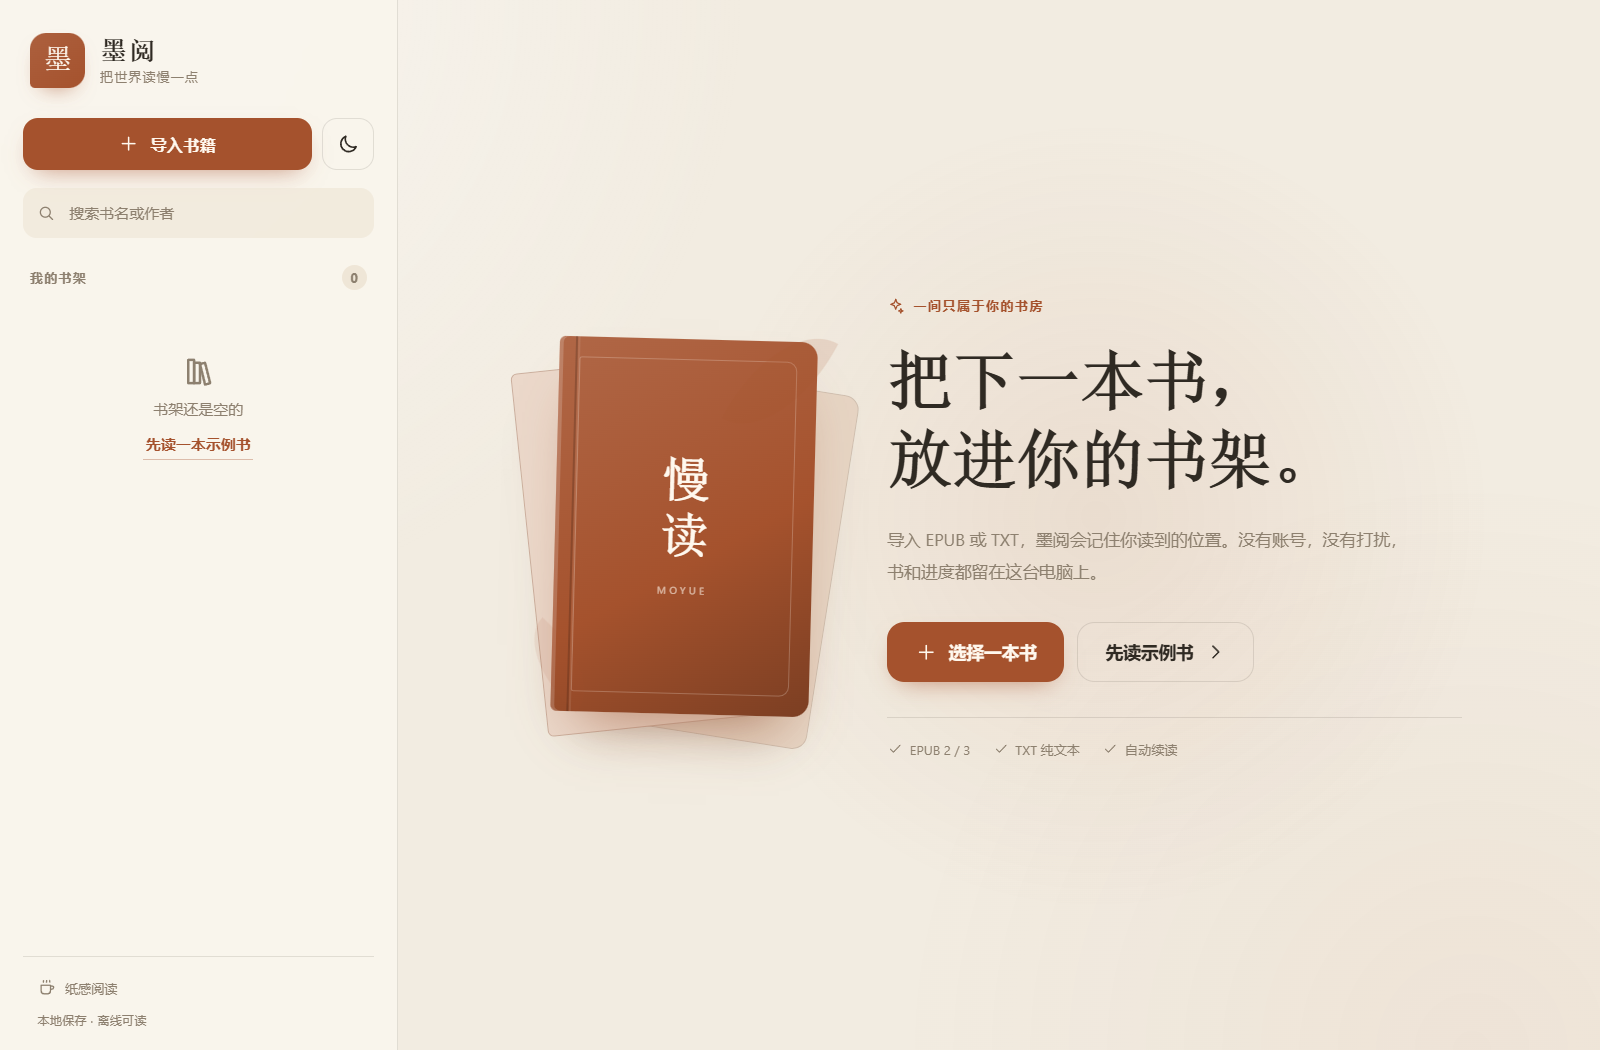
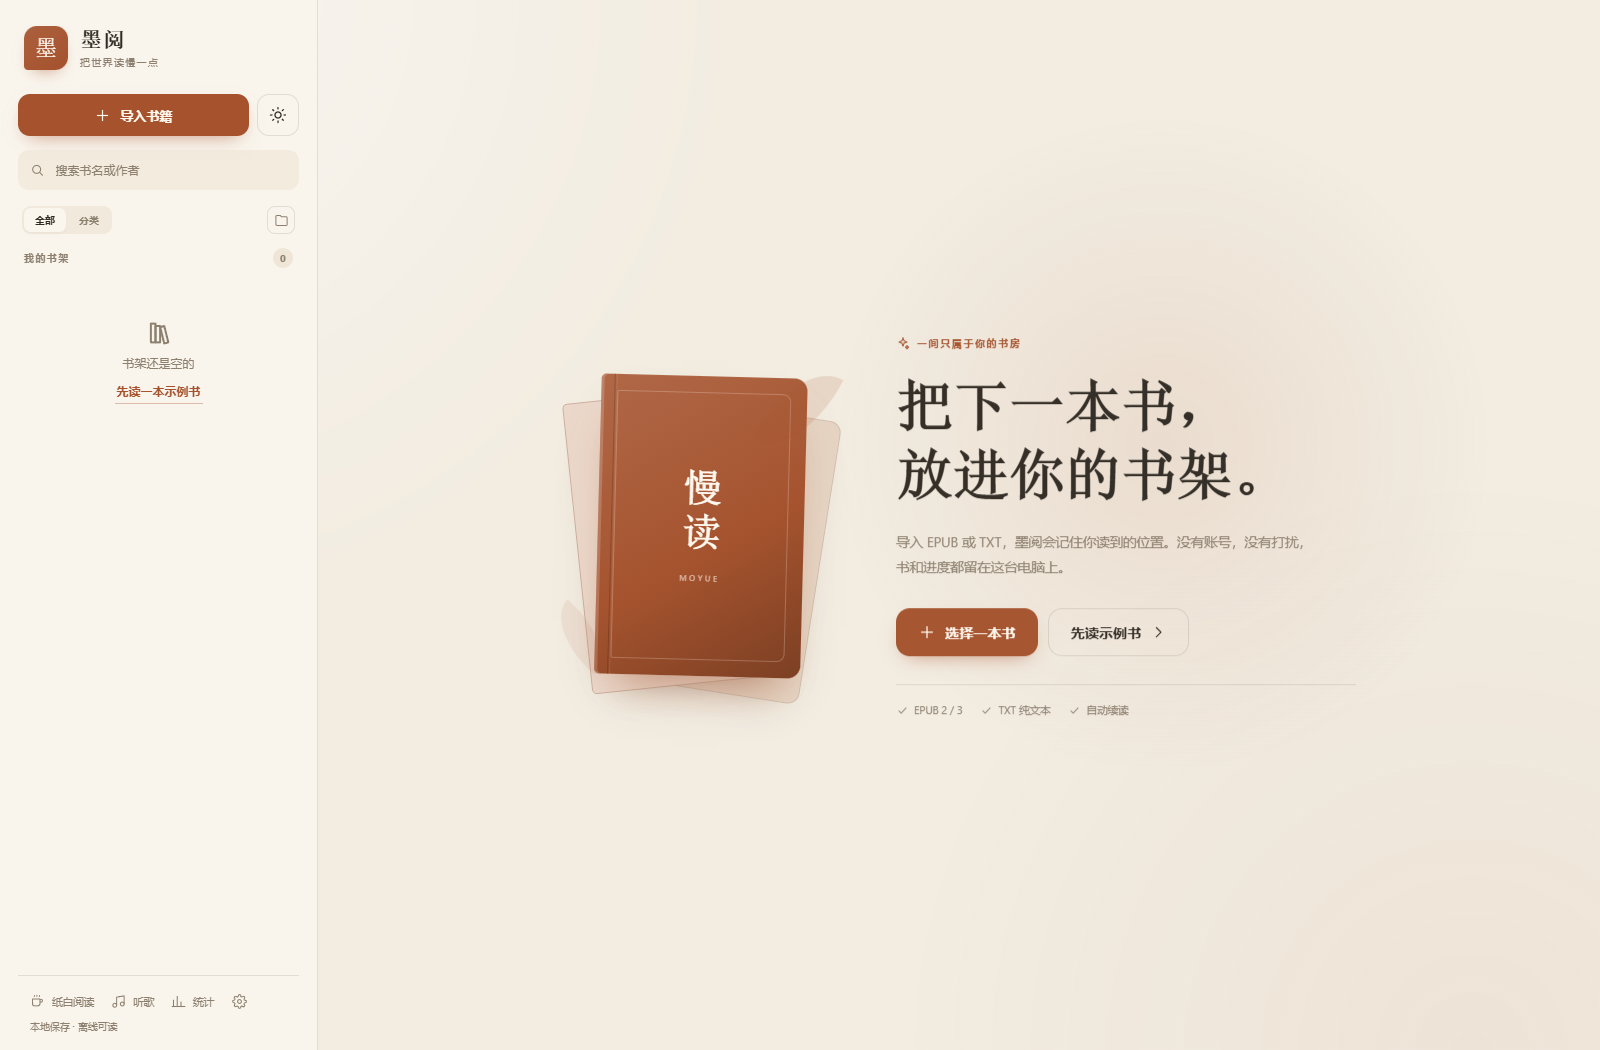
Add built-in changelog and refresh screenshots

diff --git a/src/App.tsx b/src/App.tsx
@@ -33,10 +33,11 @@ import { Icon } from "./components/Icons";
 import { appThemeStyle, isDarkTheme, THEME_PRESETS } from "./lib/themes";
 import { UpdateNotice } from "./components/UpdateNotice";
 import { useUpdater } from "./lib/useUpdater";
+import { ChangelogDialog } from "./components/ChangelogDialog";
 
 const AUTO_BACKUP_KEY = "moyue.backup.auto.v1";
 const AUTO_BACKUP_INTERVAL = 24 * 60 * 60 * 1000;
-const APP_VERSION = "0.20.0";
+const APP_VERSION = "0.20.1";
 
 export default function App() {
   const [library, setLibrary] = useState<BookMeta[]>([]);
@@ -65,6 +66,7 @@ export default function App() {
   const [assignBook, setAssignBook] = useState<BookMeta | null>(null);
   const [appSettingsOpen, setAppSettingsOpen] = useState(false);
   const [statsOpen, setStatsOpen] = useState(false);
+  const [changelogOpen, setChangelogOpen] = useState(false);
   const [uninstallOpen, setUninstallOpen] = useState(false);
   const [sponsorOpen, setSponsorOpen] = useState(false);
   const [backupBusy, setBackupBusy] = useState(false);
@@ -123,6 +125,17 @@ export default function App() {
       if (objectUrl) URL.revokeObjectURL(objectUrl);
     };
   }, [settings.backgroundImageId]);
+
+  useEffect(() => {
+    try {
+      const key = "moyue.lastSeenVersion.v1";
+      const lastSeen = localStorage.getItem(key);
+      localStorage.setItem(key, APP_VERSION);
+      if (lastSeen !== APP_VERSION) setChangelogOpen(true);
+    } catch {
+      // The changelog remains available from settings.
+    }
+  }, []);
 
   useEffect(() => {
     document.documentElement.dataset.theme = settings.theme;
@@ -930,9 +943,15 @@ export default function App() {
         onAutoDownloadChange={updater.setAutoDownload}
         onCheckUpdate={() => void updater.checkForUpdates(true)}
         onInstallUpdate={() => void updater.install()}
+        onOpenChangelog={() => {
+          setAppSettingsOpen(false);
+          setChangelogOpen(true);
+        }}
       />
 
       <StatsDialog open={statsOpen} onClose={() => setStatsOpen(false)} />
+
+      <ChangelogDialog open={changelogOpen} onClose={() => setChangelogOpen(false)} />
 
       <SponsorDialog
         open={sponsorOpen}
@@ -947,8 +966,7 @@ export default function App() {
       />
 
       <UpdateNotice
-        phase={updater.phase}
-        version={updater.version}
+        phase={updater.phase}        version={updater.version}
         body={updater.body}
         progress={updater.progress}
         downloaded={updater.downloaded}

diff --git a/src/components/ChangelogDialog.tsx b/src/components/ChangelogDialog.tsx
@@ -1,0 +1,62 @@
+import { changelog } from "../lib/changelog";
+import { Icon } from "./Icons";
+
+interface ChangelogDialogProps {
+  open: boolean;
+  onClose: () => void;
+}
+
+export function ChangelogDialog({ open, onClose }: ChangelogDialogProps) {
+  if (!open) return null;
+  const [latest, ...older] = changelog;
+
+  return (
+    <div className="changelog-backdrop" onClick={onClose}>
+      <section
+        className="changelog-dialog"
+        role="dialog"
+        aria-label="更新日志"
+        onClick={(event) => event.stopPropagation()}
+      >
+        <header className="changelog-dialog__header">
+          <div>
+            <span className="eyebrow">WHAT'S NEW</span>
+            <h3>更新日志</h3>
+          </div>
+          <button className="icon-button" onClick={onClose} aria-label="关闭更新日志">
+            <Icon name="x" size={18} />
+          </button>
+        </header>
+
+        <div className="changelog-dialog__body">
+          {latest ? (
+            <article className="changelog-latest">
+              <span className="changelog-version">v{latest.version}</span>
+              <h4>当前版本</h4>
+              <ul>
+                {latest.items.map((item, index) => (
+                  <li key={`${item.text}-${index}`} data-depth={item.depth}>
+                    {item.text}
+                  </li>
+                ))}
+              </ul>
+            </article>
+          ) : null}
+
+          {older.map((entry) => (
+            <article className="changelog-entry" key={entry.version}>
+              <h4>v{entry.version}</h4>
+              <ul>
+                {entry.items.map((item, index) => (
+                  <li key={`${item.text}-${index}`} data-depth={item.depth}>
+                    {item.text}
+                  </li>
+                ))}
+              </ul>
+            </article>
+          ))}
+        </div>
+      </section>
+    </div>
+  );
+}

diff --git a/src/styles.css b/src/styles.css
@@ -5149,6 +5149,97 @@ input:focus-visible,
   font-size: 8px;
 }
 
+.changelog-backdrop {
+  position: fixed;
+  inset: 0;
+  z-index: 92;
+  display: grid;
+  place-items: center;
+  padding: 24px;
+  background: color-mix(in srgb, #1d1813 36%, transparent);
+  backdrop-filter: blur(3px);
+}
+
+.changelog-dialog {
+  width: min(620px, 100%);
+  max-height: 86vh;
+  overflow: auto;
+  background: var(--surface);
+  border: 1px solid var(--line);
+  border-radius: 14px;
+  box-shadow: 0 28px 80px -35px var(--shadow);
+}
+
+.changelog-dialog__header {
+  display: flex;
+  align-items: flex-start;
+  justify-content: space-between;
+  padding: 20px 22px 0;
+}
+
+.changelog-dialog__header h3 {
+  margin: 3px 0 0;
+  font-size: 21px;
+  font-weight: 600;
+}
+
+.changelog-dialog__body {
+  padding: 14px 22px 22px;
+}
+
+.changelog-latest {
+  padding: 12px;
+  background: color-mix(in srgb, var(--accent) 6%, transparent);
+  border: 1px solid color-mix(in srgb, var(--accent) 25%, var(--line));
+  border-radius: 9px;
+}
+
+.changelog-version {
+  display: inline-block;
+  padding: 3px 7px;
+  color: var(--accent-ink);
+  background: var(--accent);
+  border-radius: 99px;
+  font-size: 8px;
+}
+
+.changelog-latest h4,
+.changelog-entry h4 {
+  margin: 8px 0 5px;
+  color: var(--ink);
+  font-size: 11px;
+  font-weight: 600;
+}
+
+.changelog-dialog ul {
+  margin: 0;
+  padding-left: 14px;
+  color: var(--muted);
+  font-size: 9px;
+  line-height: 1.7;
+}
+
+.changelog-dialog li[data-depth="1"] {
+  margin-left: 10px;
+  list-style-type: circle;
+}
+
+.changelog-dialog li[data-depth="2"] {
+  margin-left: 20px;
+  list-style-type: square;
+}
+
+.changelog-entry {
+  padding-top: 11px;
+  margin-top: 11px;
+  border-top: 1px solid var(--line);
+}
+
+.changelog-entry h4 {
+  margin-top: 0;
+  color: var(--muted);
+}
+
 .app-shelf-options {
   display: grid;
   grid-template-columns: 1fr 1fr;

diff --git a/src/components/AppSettingsPanel.tsx b/src/components/AppSettingsPanel.tsx
@@ -40,6 +40,7 @@ interface AppSettingsPanelProps {
   onAutoDownloadChange: (value: boolean) => void;
   onCheckUpdate: () => void;
   onInstallUpdate: () => void;
+  onOpenChangelog: () => void;
 }
 
 const themes: { id: ThemeName; label: string; hint: string }[] = [
@@ -80,8 +81,9 @@ export function AppSettingsPanel({
   onAutoDownloadChange,
   onCheckUpdate,
   onInstallUpdate,
+  onOpenChangelog,
 }: AppSettingsPanelProps) {
-  const [version, setVersion] = useState("0.20.0");
+  const [version, setVersion] = useState("0.20.1");
   const [dataDir, setDataDir] = useState("");
   const [error, setError] = useState<string | null>(null);
   const [copied, setCopied] = useState(false);
@@ -481,6 +483,9 @@ export function AppSettingsPanel({
               </div>
               <button className="button button--ghost" onClick={() => void copyRepo()}>
                 {copied ? "已复制" : "复制仓库地址"}
+              </button>
+              <button className="button button--ghost" onClick={onOpenChangelog}>
+                更新日志
               </button>
             </div>
             <p className="app-repo-url">{REPO_URL}</p>

diff --git a/src/lib/changelog.ts b/src/lib/changelog.ts
@@ -1,0 +1,37 @@
+import raw from "../../CHANGELOG.md?raw";
+
+export interface ChangelogItem {
+  text: string;
+  depth: number;
+}
+
+export interface ChangelogVersion {
+  version: string;
+  items: ChangelogItem[];
+}
+
+export const changelog: ChangelogVersion[] = parseChangelog(raw);
+
+export function parseChangelog(markdown: string): ChangelogVersion[] {
+  const versions: ChangelogVersion[] = [];
+  let current: ChangelogVersion | null = null;
+
+  for (const line of markdown.split(/\r?\n/)) {
+    const heading = line.match(/^##\s+(\S+)/);
+    if (heading) {
+      current = { version: heading[1], items: [] };
+      versions.push(current);
+      continue;
+    }
+    if (!current) continue;
+    const item = line.match(/^(\s*)-\s+(.+)$/);
+    if (item) {
+      current.items.push({
+        text: item[2].replace(/\*\*/g, "").trim(),
+        depth: Math.min(2, Math.floor(item[1].length / 2)),
+      });
+    }
+  }
+
+  return versions.filter((entry) => entry.items.length > 0);
+}

diff --git a/README.md b/README.md
@@ -22,6 +22,7 @@ Windows 10/11 安装包：[GitHub Releases](https://github.com/Langlijun666/moyu
 - **本地书库**：使用 IndexedDB 保存书籍文件，重启后仍然可读；支持从资源管理器直接拖入 EPUB / TXT
 - **自动更新**：启动静默检查、后台下载，下载完成后提示重启；支持跳过版本，更新包带签名校验
 - **错误报告**：本地记录崩溃和异常，错误页面可重新加载、导出诊断；设置中可反馈问题或功能建议
+- **内置更新日志**：软件内查看当前版本和历史更新内容，更新后首次启动自动显示
 - **书库备份**：手动备份 / 每天自动备份，保留最近 8 份；支持从 ZIP 恢复书籍、封面、进度、分类、书签、划线笔记、阅读统计、主题、字体和背景
 - **自动续读**：记录阅读位置，重新打开回到上次那一页
 - **全文搜索**：搜索整本书的内容，显示章节和上下文，点击结果跳到具体位置
@@ -89,6 +90,8 @@ Windows 10/11 安装包：[GitHub Releases](https://github.com/Langlijun666/moyu
 ![主题预设](docs/themes.png)
 
 ![帮助与反馈](docs/feedback.png)
+
+![更新日志](docs/changelog.png)
 
 ## 技术栈
 

diff --git a/CHANGELOG.md b/CHANGELOG.md
@@ -1,5 +1,13 @@
 # Changelog
 
+## 0.20.1
+
+- 内置更新日志
+  - 软件内可直接查看当前版本和历史更新内容
+  - 更新后首次启动自动打开更新日志
+  - 软件设置的「关于」中可随时查看
+- 更新 README 项目配图
+
 ## 0.20.0
 
 - 全量备份与恢复
